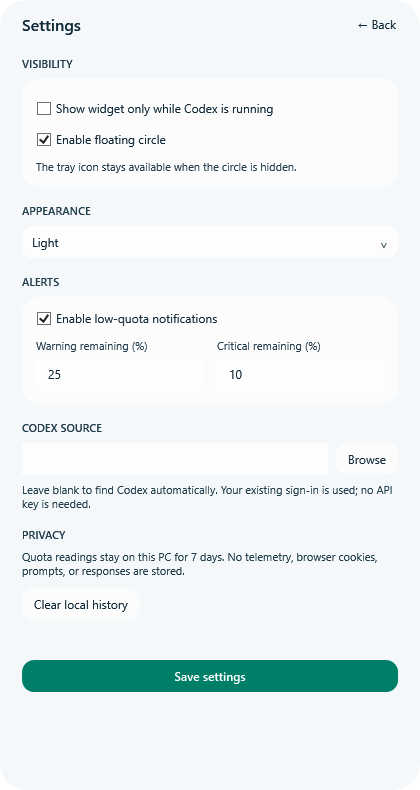
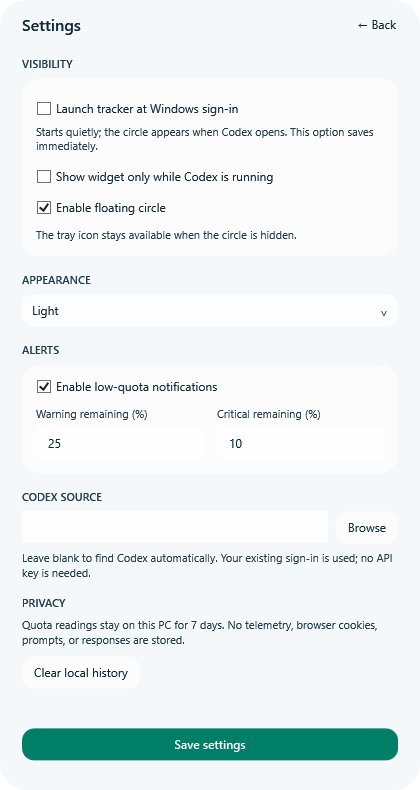
Handle malformed replies, preserve failed settings edits and add startup option

diff --git a/src/CodexUsageTracker.App/SettingsPage.xaml b/src/CodexUsageTracker.App/SettingsPage.xaml
@@ -13,7 +13,7 @@
         <StackPanel Margin="22,8,15,22">
           <TextBlock Text="VISIBILITY" FontSize="11" FontWeight="SemiBold" Foreground="{DynamicResource MutedBrush}"/>
           <Border Background="{DynamicResource CardBrush}" CornerRadius="18" Padding="14" Margin="0,8,0,16">
-            <StackPanel><CheckBox x:Name="OnlyRunning" Content="Show widget only while Codex is running"/><CheckBox x:Name="Floating" Content="Enable floating circle"/><TextBlock Text="The tray icon stays available when the circle is hidden." FontSize="11" Foreground="{DynamicResource MutedBrush}" TextWrapping="Wrap" Margin="0,4,0,0"/></StackPanel>
+            <StackPanel><CheckBox x:Name="Startup" Content="Launch tracker at Windows sign-in" Click="ChangeStartup"/><TextBlock Text="Starts quietly; the circle appears when Codex opens. This option saves immediately." FontSize="11" TextWrapping="Wrap" Foreground="{DynamicResource MutedBrush}" Margin="0,0,0,8"/><CheckBox x:Name="OnlyRunning" Content="Show widget only while Codex is running"/><CheckBox x:Name="Floating" Content="Enable floating circle"/><TextBlock Text="The tray icon stays available when the circle is hidden." FontSize="11" Foreground="{DynamicResource MutedBrush}" TextWrapping="Wrap" Margin="0,4,0,0"/></StackPanel>
           </Border>
           <TextBlock Text="APPEARANCE" FontSize="11" FontWeight="SemiBold" Foreground="{DynamicResource MutedBrush}"/>
           <ComboBox x:Name="ThemeChoice" SelectedIndex="0" Margin="0,8,0,16"><ComboBoxItem Content="System"/><ComboBoxItem Content="Light"/><ComboBoxItem Content="Dark"/></ComboBox>

diff --git a/src/CodexUsageTracker.App/WidgetWindow.xaml b/src/CodexUsageTracker.App/WidgetWindow.xaml
@@ -4,7 +4,7 @@
     <Button.Template><ControlTemplate TargetType="Button"><ContentPresenter/></ControlTemplate></Button.Template>
     <Grid Width="92" Height="92">
       <Ellipse Fill="{DynamicResource GlassStrongBrush}"/>
-      <local:QuotaRing x:Name="Ring" Five="{Binding FiveValue}" Week="{Binding WeekValue}" FiveBrush="{Binding FiveBrush}" WeekBrush="{Binding WeekBrush}" FiveExhausted="{Binding FiveExhausted}" WeekExhausted="{Binding WeekExhausted}" Margin="3"/>
+      <local:QuotaRing x:Name="Ring" Five="{Binding FiveValue}" Week="{Binding WeekValue}" FiveBrush="{Binding FiveBrush}" WeekBrush="{Binding WeekBrush}" FiveStale="{Binding FiveStale}" WeekStale="{Binding WeekStale}" FiveExhausted="{Binding FiveExhausted}" WeekExhausted="{Binding WeekExhausted}" Margin="3"/>
       <TextBlock Text="{Binding FiveRemaining}" FontFamily="Segoe UI" FontWeight="Medium" FontSize="20" TextAlignment="Center" VerticalAlignment="Center" HorizontalAlignment="Center">
         <TextBlock.RenderTransform><TranslateTransform Y="-1"/></TextBlock.RenderTransform>
       </TextBlock>

diff --git a/src/CodexUsageTracker.App/QuotaRing.cs b/src/CodexUsageTracker.App/QuotaRing.cs
@@ -2,6 +2,10 @@ namespace CodexUsageTracker.App;
 
 public sealed class QuotaRing : FrameworkElement
 {
+    public static readonly DependencyProperty FiveStaleProperty = DependencyProperty.Register(nameof(FiveStale), typeof(bool), typeof(QuotaRing), new FrameworkPropertyMetadata(false, FrameworkPropertyMetadataOptions.AffectsRender));
+    public static readonly DependencyProperty WeekStaleProperty = DependencyProperty.Register(nameof(WeekStale), typeof(bool), typeof(QuotaRing), new FrameworkPropertyMetadata(false, FrameworkPropertyMetadataOptions.AffectsRender));
+    public bool FiveStale { get => (bool)GetValue(FiveStaleProperty); set => SetValue(FiveStaleProperty, value); }
+    public bool WeekStale { get => (bool)GetValue(WeekStaleProperty); set => SetValue(WeekStaleProperty, value); }
     public static readonly DependencyProperty FiveProperty = DependencyProperty.Register(nameof(Five), typeof(double), typeof(QuotaRing), new FrameworkPropertyMetadata(0d, FrameworkPropertyMetadataOptions.AffectsRender));
     public static readonly DependencyProperty WeekProperty = DependencyProperty.Register(nameof(Week), typeof(double), typeof(QuotaRing), new FrameworkPropertyMetadata(0d, FrameworkPropertyMetadataOptions.AffectsRender));
     public double Five { get => (double)GetValue(FiveProperty); set => SetValue(FiveProperty, value); }
@@ -18,15 +22,19 @@ public sealed class QuotaRing : FrameworkElement
     {
         var center = new Point(ActualWidth / 2, ActualHeight / 2);
         var radius = Math.Min(ActualWidth, ActualHeight) / 2 - 5;
-        DrawRing(drawing, center, radius, Five, FiveBrush, 5, FiveExhausted);
-        DrawRing(drawing, center, radius - 9, Week, WeekBrush, 3, WeekExhausted);
+        DrawRing(drawing, center, radius, Five, FiveBrush, 5, FiveExhausted, FiveStale);
+        DrawRing(drawing, center, radius - 9, Week, WeekBrush, 3, WeekExhausted, WeekStale);
     }
-    private void DrawRing(DrawingContext drawing, Point center, double radius, double percent, Brush brush, double thickness, bool exhausted)
+    private void DrawRing(DrawingContext drawing, Point center, double radius, double percent, Brush brush, double thickness, bool exhausted, bool stale)
     {
+        var progressPen = new Pen(brush, thickness) { StartLineCap = PenLineCap.Round, EndLineCap = PenLineCap.Round };
+        if (stale) progressPen.DashStyle = new DashStyle(new double[] { 1, 1.5 }, 0);
         if (exhausted) { drawing.DrawEllipse(null, new Pen(brush, thickness), center, radius, radius); return; }
-        drawing.DrawEllipse(null, new Pen((Brush)FindResource("BorderBrush"), thickness), center, radius, radius);
+        var trackPen = new Pen((Brush)FindResource("BorderBrush"), thickness);
+        if (stale) trackPen.DashStyle = progressPen.DashStyle;
+        drawing.DrawEllipse(null, trackPen, center, radius, radius);
         if (percent <= 0) return;
-        if (percent >= 100) { drawing.DrawEllipse(null, new Pen(brush, thickness), center, radius, radius); return; }
+        if (percent >= 100) { drawing.DrawEllipse(null, progressPen, center, radius, radius); return; }
         var radians = percent / 100 * Math.PI * 2;
         var geometry = new StreamGeometry();
         using (var context = geometry.Open())
@@ -34,6 +42,6 @@ public sealed class QuotaRing : FrameworkElement
             context.BeginFigure(new Point(center.X, center.Y - radius), false, false);
             context.ArcTo(new Point(center.X + radius * Math.Sin(radians), center.Y - radius * Math.Cos(radians)), new Size(radius, radius), 0, percent > 50, SweepDirection.Clockwise, true, false);
         }
-        drawing.DrawGeometry(null, new Pen(brush, thickness) { StartLineCap = PenLineCap.Round, EndLineCap = PenLineCap.Round }, geometry);
+        drawing.DrawGeometry(null, progressPen, geometry);
     }
 }

diff --git a/src/CodexUsageTracker.App/TrackerController.cs b/src/CodexUsageTracker.App/TrackerController.cs
@@ -27,7 +27,7 @@ public sealed class TrackerController : IDisposable
     private DateTimeOffset lastAttempt = DateTimeOffset.MinValue;
     private bool disposed, lastRunning;
     private Drawing.Icon? ownedIcon;
-    public TrackerSettings Settings { get; }
+    public TrackerSettings Settings { get; private set; }
     public TrackerViewModel ViewModel { get; } = new();
 
     public TrackerController(string? dataDirectory = null)
@@ -207,6 +207,16 @@ public sealed class TrackerController : IDisposable
         try { Settings.Save(settingsPath); App.ApplyTheme(Settings.Theme); GlassWindow.Apply(details, App.IsDarkTheme(Settings.Theme)); widget.Ring.InvalidateVisual(); details.Chart.InvalidateVisual(); ViewModel.Notify(); UpdateTray(); }
         catch (Exception e) when (e is IOException or UnauthorizedAccessException) { MessageBox.Show("Settings could not be saved. Check folder access.", "Codex Usage Tracker"); }
     }
+    public bool TrySaveSettings(TrackerSettings candidate, out string error)
+    {
+        try { candidate.Save(settingsPath); }
+        catch (Exception exception) when (exception is IOException or UnauthorizedAccessException)
+        { error = "Settings could not be saved. Your edits are still here; check folder access and try again."; return false; }
+        Settings = candidate; ViewModel.Settings = candidate;
+        App.ApplyTheme(Settings.Theme); GlassWindow.Apply(details, App.IsDarkTheme(Settings.Theme));
+        widget.Ring.InvalidateVisual(); details.Chart.InvalidateVisual(); ViewModel.Notify(); UpdateTray();
+        error = ""; return true;
+    }
     public Task ClearHistoryAsync() => UpdateHistoryAsync(clear: true);
     private async Task UpdateHistoryAsync(UsageSnapshot? snapshot = null, bool clear = false)
     {
@@ -253,6 +263,16 @@ public sealed class TrackerController : IDisposable
             Capture("widget", widget); Capture("details", details);
             var windowCount = Application.Current.Windows.Count;
             details.ShowSettingsPage(); Capture("settings", details);
+            var original = Settings;
+            var candidate = original.Copy(); candidate.WarningPercent = 44;
+            var blockedSave = settingsPath + ".tmp";
+            Directory.CreateDirectory(blockedSave);
+            try
+            {
+                if (TrySaveSettings(candidate, out _) || !ReferenceEquals(Settings, original) || !details.IsSettingsPage)
+                    throw new InvalidOperationException("A failed save must preserve settings and navigation.");
+            }
+            finally { Directory.Delete(blockedSave); }
             if (!details.IsSettingsPage || Application.Current.Windows.Count != windowCount)
                 throw new InvalidOperationException("Settings must replace usage inside the same window.");
             details.ShowUsagePage();
@@ -263,6 +283,10 @@ public sealed class TrackerController : IDisposable
                 ViewModel.Notify(); Capture("widget-" + name, widget); Capture("details-" + name, details);
             }
             UpdateTray(); UpdateTrayMenu();
+            var fresh = ViewModel.Snapshot;
+            ViewModel.Snapshot = fresh with { ObservedAt = now.AddMinutes(-5), FiveHour = new(27, 300, now.AddHours(2)) };
+            ViewModel.Notify(); Capture("widget-stale", widget);
+            ViewModel.Snapshot = fresh; ViewModel.Notify();
             if (tray.ContextMenuStrip is { } menu)
             {
                 menu.CreateControl(); menu.Size = menu.GetPreferredSize(Drawing.Size.Empty);

diff --git a/src/CodexUsageTracker.App/SettingsPage.xaml.cs b/src/CodexUsageTracker.App/SettingsPage.xaml.cs
@@ -10,6 +10,7 @@ public partial class SettingsPage : UserControl
     {
         InitializeComponent(); this.controller = controller;
         var settings = controller.Settings;
+        Startup.IsChecked = StartupRegistration.IsEnabled;
         OnlyRunning.IsChecked = settings.OnlyWhileCodexRunning; Floating.IsChecked = settings.FloatingWidget;
         Alerts.IsChecked = settings.AlertsEnabled; Warning.Text = settings.WarningPercent.ToString(); Critical.Text = settings.CriticalPercent.ToString();
         ThemeChoice.SelectedIndex = settings.Theme == "Light" ? 1 : settings.Theme == "Dark" ? 2 : 0;
@@ -29,11 +30,18 @@ public partial class SettingsPage : UserControl
         var executable = Executable.Text.Trim();
         if (executable.Length > 0 && (!File.Exists(executable) || !string.Equals(Path.GetFileName(executable), "codex.exe", StringComparison.OrdinalIgnoreCase)))
         { Validation.Text = "Choose an existing codex.exe, or leave the path blank."; return; }
-        var settings = controller.Settings;
+        var settings = controller.Settings.Copy();
         settings.OnlyWhileCodexRunning = OnlyRunning.IsChecked == true; settings.FloatingWidget = Floating.IsChecked == true;
         settings.AlertsEnabled = Alerts.IsChecked == true; settings.WarningPercent = warning; settings.CriticalPercent = critical;
         settings.Theme = ((ComboBoxItem)ThemeChoice.SelectedItem).Content.ToString()!; settings.CodexExecutable = executable;
-        controller.SaveSettings(); controller.ShowUsagePage();
+        if (!controller.TrySaveSettings(settings, out var error)) { Validation.Text = error; return; }
+        controller.ShowUsagePage();
+    }
+    private void ChangeStartup(object sender, RoutedEventArgs e)
+    {
+        try { StartupRegistration.SetEnabled(Startup.IsChecked == true); Validation.Text = "Startup preference updated."; }
+        catch (Exception error) when (error is IOException or UnauthorizedAccessException or System.Security.SecurityException)
+        { Startup.IsChecked = StartupRegistration.IsEnabled; Validation.Text = "Could not change startup. Check your Windows permissions and try again."; }
     }
     private async void ClearHistory(object sender, RoutedEventArgs e)
     {

diff --git a/tests/CodexUsageTracker.Tests/FinalReviewTests.cs b/tests/CodexUsageTracker.Tests/FinalReviewTests.cs
@@ -1,0 +1,50 @@
+using System.Text.Json;
+using CodexUsageTracker.Core;
+using Xunit;
+
+namespace CodexUsageTracker.Tests;
+
+public class FinalReviewTests
+{
+    [Theory]
+    [InlineData("{\"id\":2}")]
+    [InlineData("{\"id\":2,\"error\":{}}")]
+    [InlineData("null")]
+    public void BrokenRpcResponsesBecomeRecoverableErrors(string json)
+    {
+        using var document = JsonDocument.Parse(json);
+        Assert.Throws<IOException>(() => RpcResponseParser.TryReadResult(document.RootElement, 2, out _));
+    }
+    [Theory]
+    [InlineData("{\"method\":\"notification\"}")]
+    [InlineData("{\"id\":1}")]
+    [InlineData("{\"id\":\"other\"}")]
+    public void UnrelatedMessagesAreIgnored(string json)
+    {
+        using var document = JsonDocument.Parse(json);
+        Assert.False(RpcResponseParser.TryReadResult(document.RootElement, 2, out _));
+    }
+    [Fact] public void ResultSurvivesDocumentDisposal()
+    {
+        JsonElement result;
+        using (var document = JsonDocument.Parse("{\"id\":2,\"result\":{\"ok\":true}}"))
+            Assert.True(RpcResponseParser.TryReadResult(document.RootElement, 2, out result));
+        Assert.True(result.GetProperty("ok").GetBoolean());
+    }
+    [Theory]
+    [InlineData(59, "Resets in less than 1 minute")]
+    [InlineData(1, "Resets in less than 1 minute")]
+    [InlineData(60, "Resets in 0h 1m")]
+    [InlineData(0, "Reset due · awaiting update")]
+    public void CountdownHandlesLastMinute(int seconds, string expected)
+    {
+        var now = DateTimeOffset.UtcNow;
+        Assert.Equal(expected, new QuotaWindow(20, 300, now.AddSeconds(seconds)).Countdown(now));
+    }
+    [Fact] public void EditingDraftDoesNotChangeActiveSettings()
+    {
+        var active = new TrackerSettings(); var draft = active.Copy();
+        draft.Theme = "Light"; draft.WarningPercent = 44;
+        Assert.Equal("System", active.Theme); Assert.Equal(25, active.WarningPercent);
+    }
+}

diff --git a/src/CodexUsageTracker.App/StartupRegistration.cs b/src/CodexUsageTracker.App/StartupRegistration.cs
@@ -1,0 +1,27 @@
+using Microsoft.Win32;
+
+namespace CodexUsageTracker.App;
+
+internal static class StartupRegistration
+{
+    private const string KeyPath = @"Software\Microsoft\Windows\CurrentVersion\Run";
+    private const string Name = "CodexUsageTracker";
+    public static bool IsEnabled
+    {
+        get
+        {
+            try { using var key = Registry.CurrentUser.OpenSubKey(KeyPath); return key?.GetValue(Name) is string; }
+            catch (System.Security.SecurityException) { return false; }
+            catch (UnauthorizedAccessException) { return false; }
+        }
+    }
+    public static void SetEnabled(bool enabled)
+    {
+        using var key = Registry.CurrentUser.CreateSubKey(KeyPath);
+        if (!enabled) { key.DeleteValue(Name, false); return; }
+        var executable = Environment.ProcessPath;
+        if (!string.Equals(Path.GetFileName(executable), "CodexUsageTracker.exe", StringComparison.OrdinalIgnoreCase))
+            throw new IOException("Use the installed executable to enable startup.");
+        key.SetValue(Name, $"\"{executable}\"", RegistryValueKind.String);
+    }
+}

diff --git a/src/CodexUsageTracker.Core/RpcResponseParser.cs b/src/CodexUsageTracker.Core/RpcResponseParser.cs
@@ -1,0 +1,18 @@
+using System.Text.Json;
+
+namespace CodexUsageTracker.Core;
+
+public static class RpcResponseParser
+{
+    public static bool TryReadResult(JsonElement root, int expectedId, out JsonElement result)
+    {
+        result = default;
+        if (root.ValueKind != JsonValueKind.Object) throw new IOException("Invalid Codex response.");
+        if (!root.TryGetProperty("id", out var id)) return false; // Notification.
+        if (id.ValueKind != JsonValueKind.Number || !id.TryGetInt32(out var value) || value != expectedId) return false;
+        if (root.TryGetProperty("error", out _) || !root.TryGetProperty("result", out var payload))
+            throw new IOException("Codex did not return quota data. Check your Codex sign-in.");
+        result = payload.Clone();
+        return true;
+    }
+}

diff --git a/src/CodexUsageTracker.Core/AppServerSource.cs b/src/CodexUsageTracker.Core/AppServerSource.cs
@@ -45,10 +45,7 @@ public sealed class AppServerSource
         while (await process.StandardOutput.ReadLineAsync(token) is { } line)
         {
             using var document = JsonDocument.Parse(line);
-            var root = document.RootElement;
-            if (!root.TryGetProperty("id", out var responseId) || !responseId.TryGetInt32(out var value) || value != id) continue;
-            if (root.TryGetProperty("error", out _)) throw new IOException("Codex did not return quota data. Check your Codex sign-in.");
-            return root.GetProperty("result").Clone();
+            if (RpcResponseParser.TryReadResult(document.RootElement, id, out var result)) return result;
         }
         throw new IOException("Codex closed the quota connection.");
     }

diff --git a/src/CodexUsageTracker.App/TrackerViewModel.cs b/src/CodexUsageTracker.App/TrackerViewModel.cs
@@ -18,6 +18,8 @@ public sealed class TrackerViewModel : INotifyPropertyChanged
     public Brush OverallBrush => StatusBrush(OverallStatus, "AccentBrush");
     public bool FiveExhausted => FiveStatus == QuotaStatus.Exhausted;
     public bool WeekExhausted => WeekStatus == QuotaStatus.Exhausted;
+    public bool FiveStale => FiveStatus == QuotaStatus.Stale;
+    public bool WeekStale => WeekStatus == QuotaStatus.Stale;
     public Brush FiveTrackBrush => FiveExhausted ? FiveBrush : (Brush)Application.Current.FindResource("TrackBrush");
     public Brush WeekTrackBrush => WeekExhausted ? WeekBrush : (Brush)Application.Current.FindResource("TrackBrush");
     public string WidgetStatus => OverallStatus switch

diff --git a/src/CodexUsageTracker.App/App.xaml.cs b/src/CodexUsageTracker.App/App.xaml.cs
@@ -9,6 +9,12 @@ public partial class App : Application
     protected override void OnStartup(StartupEventArgs e)
     {
         base.OnStartup(e);
+        if (e.Args.Contains("--enable-startup"))
+        {
+            try { StartupRegistration.SetEnabled(true); Shutdown(0); }
+            catch (Exception error) when (error is IOException or UnauthorizedAccessException or System.Security.SecurityException) { Shutdown(1); }
+            return;
+        }
         if (e.Args.Length >= 2 && e.Args[0] == "--render-preview")
         {
             Directory.CreateDirectory(e.Args[1]);

diff --git a/src/CodexUsageTracker.Core/UsageSnapshot.cs b/src/CodexUsageTracker.Core/UsageSnapshot.cs
@@ -9,6 +9,7 @@ public sealed record QuotaWindow(double UsedPercent, int DurationMinutes, DateTi
         if (ResetsAt is not { } reset) return "Reset time unavailable";
         var delta = reset - now;
         if (delta <= TimeSpan.Zero) return "Reset due · awaiting update";
+        if (delta.TotalMinutes < 1) return "Resets in less than 1 minute";
         return delta.TotalDays >= 1 ? $"Resets in {(int)delta.TotalDays}d {delta.Hours}h"
             : $"Resets in {(int)delta.TotalHours}h {delta.Minutes}m";
     }
